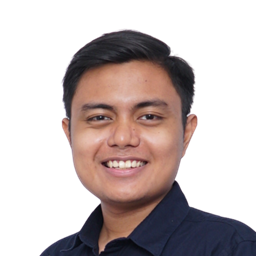
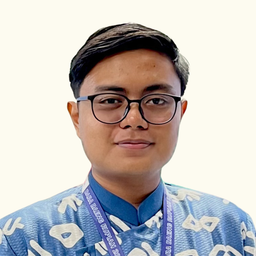
feat(about): match the profile header and bio to LinkedIn
Uses the LinkedIn photo cropped to head and shoulders, the full name, and the current role from the LinkedIn headline. The bio now opens with the quote "I turn numbers into decisions." followed by the facts, the same text and order as the LinkedIn About.

diff --git a/app/components/AboutSection.tsx b/app/components/AboutSection.tsx
@@ -68,32 +68,34 @@ export default function AboutSection({ onOpenProject }: { onOpenProject: (projec
         <div className="bg-[#111111] border border-white/15 rounded-3xl p-5 sm:p-8 shadow-[0_20px_60px_rgba(255,255,255,0.05)]">
           {/* Profile header (portrait + name + field), bio full width below */}
           <div className="flex items-center gap-3 sm:gap-4">
-            {/* Transparent studio cutout: a solid light backdrop reads as a real headshot, a translucent one looks muddy */}
+            {/* Head-and-shoulders crop of the LinkedIn photo (opaque cream backdrop); the light fill only shows while it loads */}
             <div className="relative flex-none w-12 h-12 sm:w-16 sm:h-16 rounded-full overflow-hidden bg-neutral-200">
               <Image src="/assets/about/portrait.png" alt="Maulana Raji Shofil Fuadi" fill sizes="64px" quality={90} className="object-cover" />
             </div>
             <div className="min-w-0">
-              <p className="font-semibold text-white text-base sm:text-xl leading-tight truncate">Maulana Raji</p>
-              <p className="text-white/60 text-xs sm:text-sm mt-0.5 sm:mt-1 truncate">Actuarial &amp; Data Science</p>
+              <p className="font-semibold text-white text-base sm:text-xl leading-tight truncate">Maulana Raji Shofil Fuadi</p>
+              {/* Current role only, the first part of the LinkedIn headline: Apple Developer Academy is in Education right below and the field is in the hero */}
+              <p className="text-white/60 text-xs sm:text-sm mt-0.5 sm:mt-1 truncate">Reinsurance Data Analyst Intern @Askrindo</p>
             </div>
           </div>
-          {/* Phone shows only the opening line with an inline "more", social-caption style; tapping the open text collapses it. sm+ always shows the full bio */}
-          <p id="about-bio" onClick={() => bioOpen && setBioOpen(false)} className="mt-3 sm:mt-5 text-white leading-relaxed text-sm sm:text-lg text-pretty">
-            I turn numbers into decisions.
-            {/* Two extra dots turn the period into "..." while collapsed */}
-            <span className={bioOpen ? "hidden" : "sm:hidden"}>..</span>
-            <span className={bioOpen ? "inline" : "hidden sm:inline"}> Actuarial science graduate from Hasanuddin University focused on data analytics, building projects from forecasting to automation, with a proven record in leadership, organizations, and competitions.</span>{" "}
+          {/* Opening quote is the one tagline; the bio below is plain facts. Same text and order as the LinkedIn About */}
+          {/* Phone shows only the quote with an inline "more", social-caption style; tapping the open bio collapses it. sm+ always shows the full bio */}
+          <p className="mt-3 sm:mt-5 text-white/80 italic leading-relaxed text-sm sm:text-lg">
+            &ldquo;I turn numbers into decisions.&rdquo;{" "}
             {!bioOpen && (
               <button
                 type="button"
                 onClick={() => setBioOpen(true)}
                 aria-expanded={false}
                 aria-controls="about-bio"
-                className="sm:hidden font-medium text-white/50 hover:text-white transition-colors"
+                className="sm:hidden not-italic font-medium text-white/50 hover:text-white transition-colors"
               >
                 more
               </button>
             )}
+          </p>
+          <p id="about-bio" onClick={() => setBioOpen(false)} className={`${bioOpen ? "block" : "hidden sm:block"} mt-2 sm:mt-3 text-white leading-relaxed text-sm sm:text-lg text-pretty`}>
+            Actuarial Science graduate from Hasanuddin University focused on data analytics, building projects from forecasting to automation, with a proven record in leadership, organizations, and competitions.
           </p>
 
           {/* Two columns of near-equal rows (5 left, 4 right) so they end close to level */}
